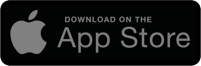
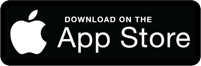
whitepaper and demo release

diff --git a/index.html b/index.html
@@ -143,11 +143,11 @@
                                     class="button-group align-items-center flex-column flex-sm-row justify-content-sm-center">
                                     <a href="https://forms.gle/bVZZqc7Wxn6nZttM9" target="_blank"
                                         class="mr-sm-3 mb-10 mb-sm-0 box-shadow-2 rounded-md btn-3d-hover transition-default">
-                                        <img src="img/_app-store-md.png" class="rounded-md" alt="app-store">
+                                        <img src="img/app-store-md.png" class="rounded-md" alt="app-store">
                                     </a>
                                     <a href="https://forms.gle/bVZZqc7Wxn6nZttM9" target="_blank"
                                         class="box-shadow-2 rounded-md btn-3d-hover transition-default">
-                                        <img src="img/_google-play-md.png" class="rounded-md" alt="google-play">
+                                        <img src="img/google-play-md.png" class="rounded-md" alt="google-play">
                                     </a>
 
 
